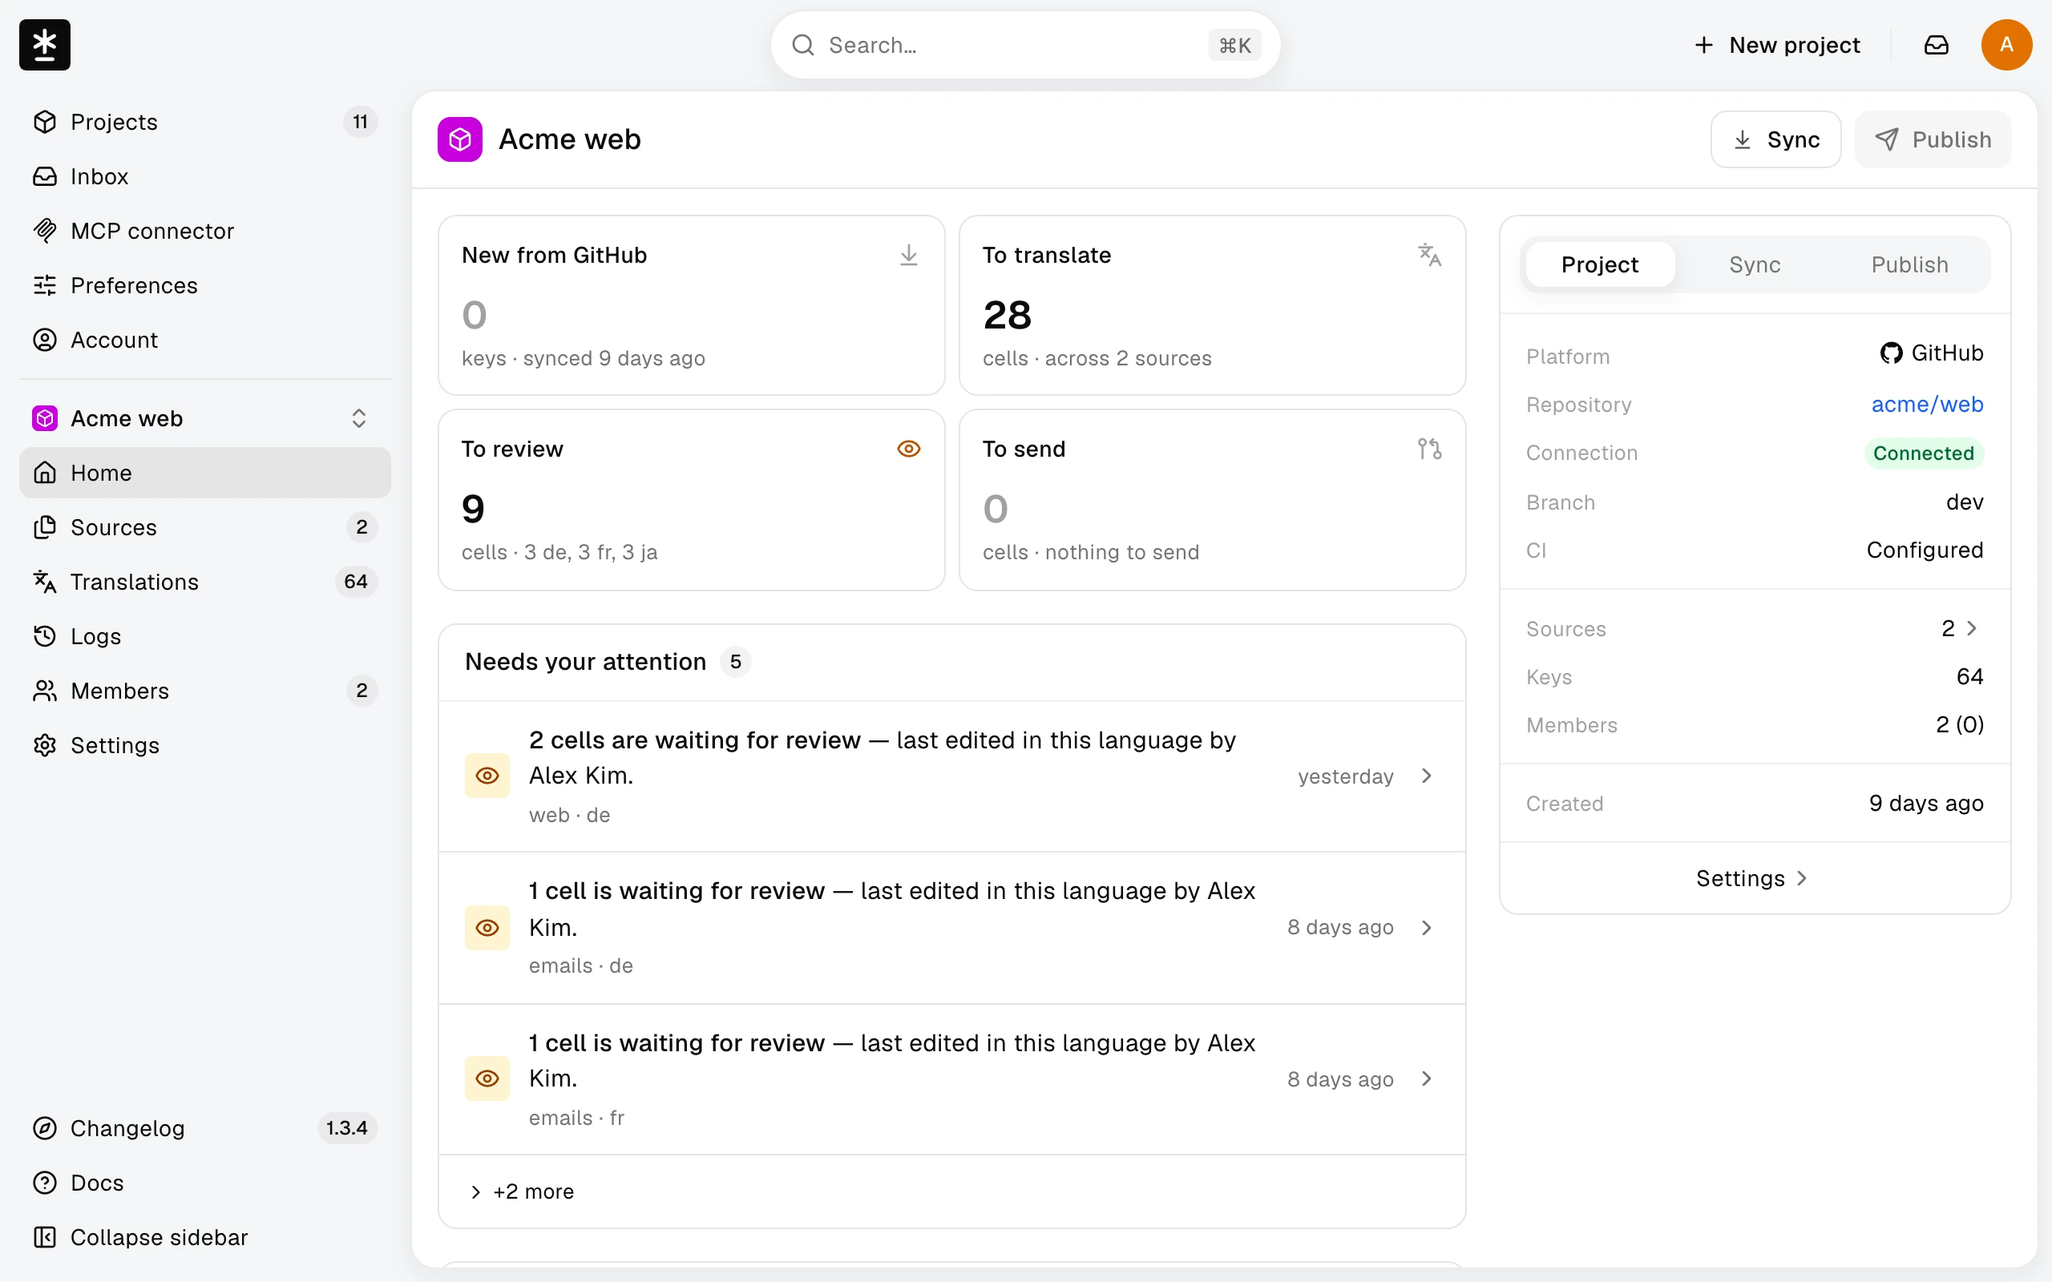
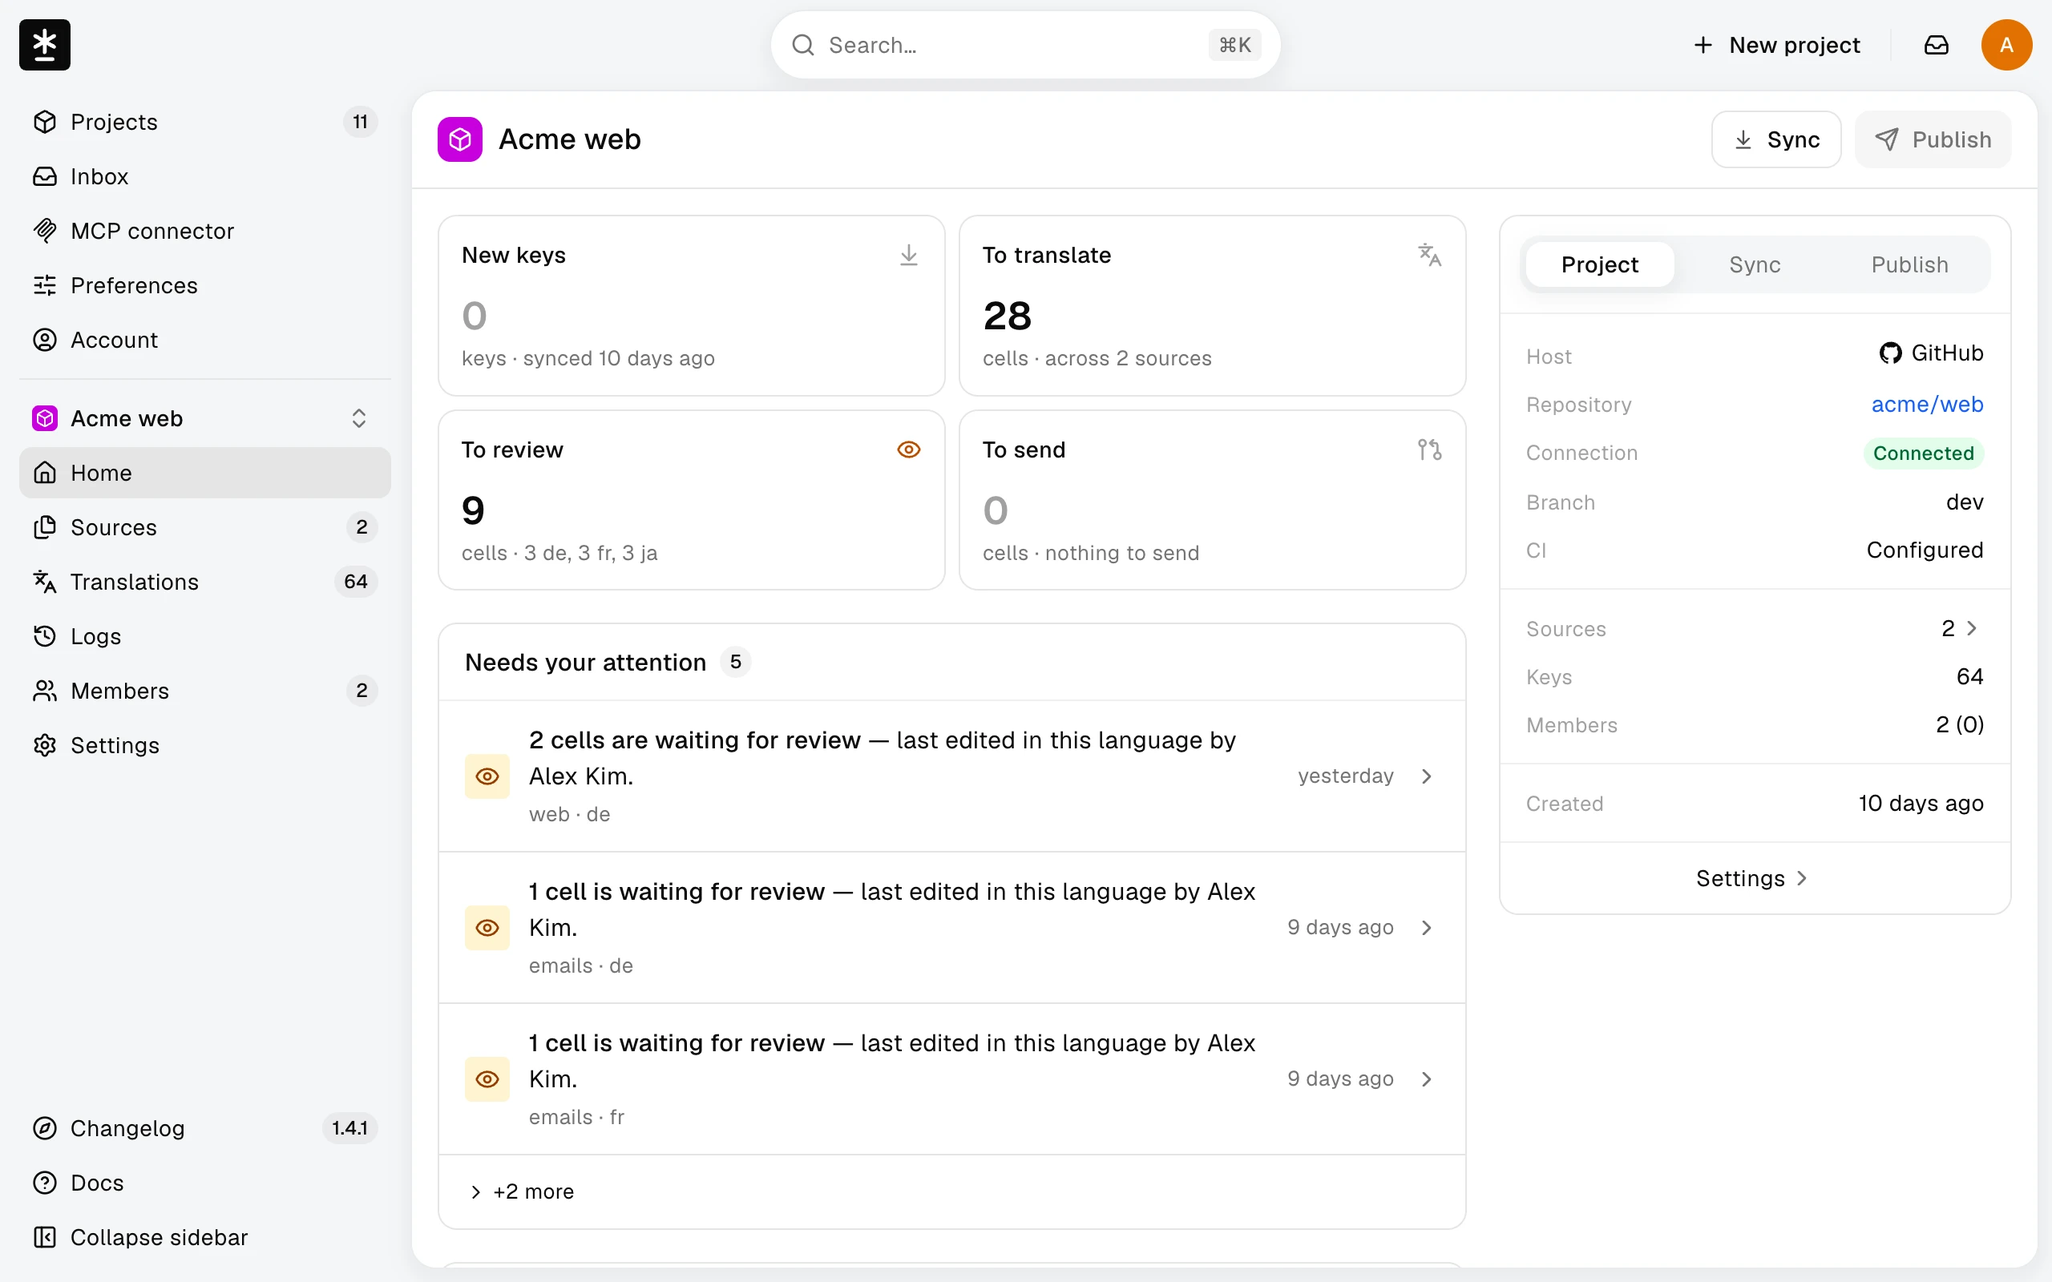
docs(guide): reshoot Home and status filter cuts for New keys and Host

diff --git a/guide/SHOOTING.md b/guide/SHOOTING.md
@@ -159,21 +159,21 @@
 | /guide/actions-policy.webp | lib/onboarding/workflow.ts, .github/actions/malmoi-i18n-push/action.yml | de45de3dad10e1231c932e05ddc616b5397b29d1, 559ddc28bcd1c0fa8f4a1946dd15f7e8fcd0f03d | 2560x1600 |
 | /guide/translation-editor.webp | components/translations/workspace/key-list.tsx, components/translations/workspace/locale-panel.tsx, components/translations/workspace/workspace.tsx, components/translations/workspace/tree-panel.tsx | 2c42ea96c69fe2f89dd975ed4d0435bab8f2df2b, 16a52148f9dd92485ab8e8c1df19e4045de91a50, c1c8ccf51ce92d39c56260381fe756aefc9ca6bb, 1e93cf6e783081414d514b315d21dd4578602550 | 2560x1600 |
 | /guide/publish-preview.webp | components/publish-button.tsx, lib/publish/preview.ts | 83a7db1261a14aae68ca91b0ec231cb7ec4d5343, aab60c85f05f99f32e26d6a47b3a6e6721313f37 | 2560x1600 |
-| /guide/project-home.webp | app/(edit)/projects/[slug]/(home)/page.tsx, components/home/count-cards.tsx, components/home/meta-column.tsx, components/home/meta-tabs.tsx | e1da6ab9dc0773da5c543619d85b06efba41cbb2, 82bc47ebbf79fe2d66902ffb828abffe96bbcd08, 0e67fc7c827d5c28da3bf0c9f7ea71a127c27c6f, 326a71e9fadefec3992bad2e9acf0192fa107a35 | 2560x1600 |
+| /guide/project-home.webp | app/(edit)/projects/[slug]/(home)/page.tsx, components/home/count-cards.tsx, components/home/meta-column.tsx, components/home/meta-tabs.tsx, dict:projects.summary.newFromGithub, dict:home.meta.platform | e1da6ab9dc0773da5c543619d85b06efba41cbb2, 6fb483d9bcbce96a3390bed0bb6d9a9c200ed852, 0e67fc7c827d5c28da3bf0c9f7ea71a127c27c6f, 326a71e9fadefec3992bad2e9acf0192fa107a35, d446176b65708906041b4a7df027fa8e2155349d, 3960ec4ca5fb5e5d8cdb2cc1c5121c003e426517 | 2560x1600 |
 | /guide/invite-members.webp | components/members/invite-modal.tsx | eb7d59815ce95f005cb00d3a9825c6180c0e1b5d | 2560x1600 |
 | /guide/members.webp | components/members/member-list.tsx, components/members/member-row.tsx, components/members/pending-invitations.tsx | 6c11618f5cf3a604dbc8245f1beb026e98a25cc3, c22d96684a0ffbfbe2fdda0b36db5ca310a200e9, bb3be5dd03f9eded04f737c4a007e01e44435210 | 2560x1600 |
 | /guide/sources.webp | components/sources/sources-screen.tsx, components/sources/source-status.tsx | 9c56251ca5cb419d3cdf7659f9aade9512fa9eaf, 3df5a25bcf1d94eee8d15176730ab652a9c18a9c | 2560x1600 |
 | /guide/add-sources.webp | components/sources/add-sources-modal.tsx | 3a68b93e1836d12f8bef9de4e7aad708b0aa3f7c | 2560x1600 |
 | /guide/archive-card.webp | components/settings/archive-card.tsx | fbf5ba1bd7b87ff3c8ea910d2876d810b3deb440 | 2560x1600 |
 | /guide/accept-invitation.webp | app/invite/[token]/page.tsx, components/invite/project-card.tsx, components/signin/auth-layout.tsx | d4d36ad336ad4d41488b964252c22a299fd49457, f9d7dc35d9d0493e3105516374f0e78a24ad7fe2, ba72c94d3b0d2211607221055fa104ef50e4b032 | 2560x1600 |
-| /guide/state-filter.webp | components/translations/workspace/filter-menu.tsx, components/translations/workspace/key-list.tsx, dict:translations.workspace.filters.state.any, dict:translations.workspace.filters.state.incomplete, dict:translations.workspace.filters.state.unsent, dict:translations.workspace.filters.state.review, dict:translations.workspace.filters.state.new | 0d6e722c777ce3d4d3cdba98015793f38c2cbb4a, 2c42ea96c69fe2f89dd975ed4d0435bab8f2df2b, b823bb9b42b3672439670b5267fe5328d7524380, 387fd1bbc18419e26c612f4acad9213e5073ade4, 0d09fa0d8c890b48da20aefe409a39eb962b5114, 33a506cf6ec5a56c261838f0a5a3d29cd7f2dacc, 56539cd31aeb7453fb2900c2952b988146fd6127 | 2560x1600 |
+| /guide/state-filter.webp | components/translations/workspace/filter-menu.tsx, components/translations/workspace/key-list.tsx, dict:translations.workspace.filters.state.any, dict:translations.workspace.filters.state.incomplete, dict:translations.workspace.filters.state.unsent, dict:translations.workspace.filters.state.review, dict:translations.workspace.filters.state.new | 890b223a1897f5bc723c15e92090c1e1b52cb9e7, 2c42ea96c69fe2f89dd975ed4d0435bab8f2df2b, b823bb9b42b3672439670b5267fe5328d7524380, 387fd1bbc18419e26c612f4acad9213e5073ade4, 0d09fa0d8c890b48da20aefe409a39eb962b5114, 33a506cf6ec5a56c261838f0a5a3d29cd7f2dacc, d446176b65708906041b4a7df027fa8e2155349d | 2560x1600 |
 | /guide/inbox-open.webp | components/shell/attention-inbox.tsx, lib/home/attention-view.ts, lib/inbox/plan.ts, components/inbox/row-slots.tsx | 923e6db193fd4c529d08b90415ec621c149ea0b2, edbbb141b2877391ee384376b69298ae30d301da, 4145fd76f2c3729a2975d9c5f53c87195e710f80, 733b1e879b07ca09c03a8687fde5d75a037fde68 | 2560x1600 |
 | /guide/inbox-page.webp | app/(edit)/inbox/page.tsx, components/inbox/inbox-list.tsx, components/inbox/row-slots.tsx, lib/inbox/plan.ts | df74c31a4dd36d61615638890d73981e0d854782, be439ea0b57a08136990b9c26fa176cb9a84c38e, 733b1e879b07ca09c03a8687fde5d75a037fde68, 4145fd76f2c3729a2975d9c5f53c87195e710f80 | 2560x1600 |
-| /guide/home-publish.webp | app/(edit)/projects/[slug]/(home)/page.tsx, components/home/count-cards.tsx, components/publish-button.tsx | e1da6ab9dc0773da5c543619d85b06efba41cbb2, 82bc47ebbf79fe2d66902ffb828abffe96bbcd08, 83a7db1261a14aae68ca91b0ec231cb7ec4d5343 | 2560x1600 |
+| /guide/home-publish.webp | app/(edit)/projects/[slug]/(home)/page.tsx, components/home/count-cards.tsx, components/publish-button.tsx, dict:projects.summary.newFromGithub, dict:home.meta.platform | e1da6ab9dc0773da5c543619d85b06efba41cbb2, 6fb483d9bcbce96a3390bed0bb6d9a9c200ed852, 83a7db1261a14aae68ca91b0ec231cb7ec4d5343, d446176b65708906041b4a7df027fa8e2155349d, 3960ec4ca5fb5e5d8cdb2cc1c5121c003e426517 | 2560x1600 |
 | /guide/publish-result.webp | components/publish-button.tsx | 83a7db1261a14aae68ca91b0ec231cb7ec4d5343 | 2560x1600 |
-| /guide/home-paused.webp | app/(edit)/projects/[slug]/(home)/page.tsx, components/home/count-cards.tsx, components/home/meta-column.tsx, components/home/meta-tabs.tsx, dict:home.cards.held.pending-edits | e1da6ab9dc0773da5c543619d85b06efba41cbb2, 82bc47ebbf79fe2d66902ffb828abffe96bbcd08, 0e67fc7c827d5c28da3bf0c9f7ea71a127c27c6f, 326a71e9fadefec3992bad2e9acf0192fa107a35, e7daa697ea395700d6e0a57f5dc83a59b2b30aa7 | 2560x1600 |
+| /guide/home-paused.webp | app/(edit)/projects/[slug]/(home)/page.tsx, components/home/count-cards.tsx, components/home/meta-column.tsx, components/home/meta-tabs.tsx, dict:home.cards.held.pending-edits, dict:projects.summary.newFromGithub | e1da6ab9dc0773da5c543619d85b06efba41cbb2, 6fb483d9bcbce96a3390bed0bb6d9a9c200ed852, 0e67fc7c827d5c28da3bf0c9f7ea71a127c27c6f, 326a71e9fadefec3992bad2e9acf0192fa107a35, e7daa697ea395700d6e0a57f5dc83a59b2b30aa7, d446176b65708906041b4a7df027fa8e2155349d | 2560x1600 |
 | /guide/revert-confirm.webp | components/translations/workspace/workspace.tsx, components/translations/edit-loss-banner.tsx, components/translations/workspace/key-list.tsx | c1c8ccf51ce92d39c56260381fe756aefc9ca6bb, 1c1091fe8e495bea05b41e9022bb758b522c15e4, 2c42ea96c69fe2f89dd975ed4d0435bab8f2df2b | 2560x1600 |
-| /guide/sync-discard.webp | components/home/sync-button.tsx | 03c75034b48b58f0208b5c625d2e2f4ef7a18b35 | 2560x1600 |
+| /guide/sync-discard.webp | components/home/sync-button.tsx, dict:projects.summary.newFromGithub, dict:home.meta.platform | 03c75034b48b58f0208b5c625d2e2f4ef7a18b35, d446176b65708906041b4a7df027fa8e2155349d, 3960ec4ca5fb5e5d8cdb2cc1c5121c003e426517 | 2560x1600 |
 | /guide/logs-event.webp | components/logs/event-dialog.tsx, components/logs/event-detail.tsx | f76913a6d8972a169402769e9951ef6dbb9a79bb, 60f6fc110edf8df5e7774b2c1aa1cdd4f4c05998 | 2560x1600 |
 | /guide/account.webp | app/(edit)/account/page.tsx, components/account/profile-picture.tsx, components/account/login-methods.tsx, components/account/github-section.tsx, components/account/gitlab-section.tsx | 3a7b63f8d153d5bd28e8c5f01885937aa5697952, c4ea53b3f682c942003dac5b81bb7eb80a72d269, 533e6a97c384e8720357073991cd99e8e4ae2fe5, 14e5cf37c07bc1e566ce9aa32ce6392663269af2, 1925ee36a6dc1bb83791d096b39fb13bdc845490 | 2560x1600 |
 | /guide/footer-language-menu.webp | components/i18n/locale-switcher.tsx, lib/i18n/locales.ts | c71d7813e91fdb33e9144151d6dcdf1f5f34d12d, 7ae40a45e0677ae93a26e331d74bda1680d403da | 2560x1600 |
@@ -196,7 +196,7 @@
 | /guide/gitlab-pat-scopes.webp | components/gitlab/token-form.tsx | ef2b5e0bf7f45739b6266ccbc8e892cd3738934a | 2560x1600 |
 | /guide/gitlab-ci-variable.webp | lib/onboarding/gitlab-ci.ts | 13c632fbd9567a0f78f2d1193f18ab3a9fdaf0fe | 2560x1600 |
 | /guide/gitlab-protected-branch.webp | lib/onboarding/gitlab-ci.ts | 13c632fbd9567a0f78f2d1193f18ab3a9fdaf0fe | 2560x1600 |
-| /guide/home-sync-tab.webp | app/(edit)/projects/[slug]/(home)/page.tsx, components/home/meta-column.tsx, components/home/meta-tabs.tsx, components/home/sync-result.tsx | e1da6ab9dc0773da5c543619d85b06efba41cbb2, 0e67fc7c827d5c28da3bf0c9f7ea71a127c27c6f, 326a71e9fadefec3992bad2e9acf0192fa107a35, aca196a214f9e8e6c9f460da7126300de24fc04a | 2560x1600 |
+| /guide/home-sync-tab.webp | app/(edit)/projects/[slug]/(home)/page.tsx, components/home/meta-column.tsx, components/home/meta-tabs.tsx, components/home/sync-result.tsx, dict:projects.summary.newFromGithub | e1da6ab9dc0773da5c543619d85b06efba41cbb2, 0e67fc7c827d5c28da3bf0c9f7ea71a127c27c6f, 326a71e9fadefec3992bad2e9acf0192fa107a35, aca196a214f9e8e6c9f460da7126300de24fc04a, d446176b65708906041b4a7df027fa8e2155349d | 2560x1600 |
 | /guide/logs-list.webp | app/(edit)/projects/[slug]/logs/page.tsx, components/logs/log-filters.tsx, components/logs/event-row.tsx | 965a0af77acd975284dd5de8cec3b7b17207000a, 8d9380cf37e4a71f31ad628ab2131e396c341f3a, b4f3a62675838cb0380dbae298687702ad170009 | 2560x1600 |
 | /guide/source-details.webp | components/sources/source-detail-modal.tsx, components/sources/base-language-form.tsx | fef5657793714485d4690894b1102340e7ee2821, dc1f4eafdd1817c41cb726570ce4a87edeb05144 | 2560x1600 |
 | /guide/source-remove.webp | components/sources/remove-source-dialog.tsx, components/sources/source-detail-modal.tsx | 5eb13a9ed0df2a070105176aae30556177423001, fef5657793714485d4690894b1102340e7ee2821 | 2560x1600 |
@@ -281,3 +281,4 @@
 - 2026-10-13 **Create 장 분리 + 컷 25장 추가**(사용자 — "앱 설치·PAT 발급 과정을 더 찍어", "깃헙·깃랩 각각 트러블슈팅 가이드 — 에러 상황 재현", "가이드 전체를 확인하고 스크린샷 적극 추가"). 추가(전부 1280×800 · DPR 2): ① 만들기 — `create-github-install`(EDITOR 계정이 GitHub 미연결이라 그 세션으로) · `github-app-install-target` · `github-app-install`(github.com, 설치 확정 안 함) · `gitlab-connect-token`(EDITOR 세션, GitLab 미연결) · `gitlab-pat-form` · `gitlab-pat-scopes`(gitlab.com 프리필 링크, 토큰 안 만듦) · `gitlab-ci-variable`(서랍 Cancel — 저장 안 함) · `gitlab-protected-branch`. ② 설정·동기화·계정·번역 — `home-sync-tab` · `logs-list` · `source-details` · `source-remove`(Cancel) · `archive-restore`(보관된 `audit-q-261007`, Restore 안 누름) · `account-connections` · `sign-out-everywhere`(Cancel) · `preferences-time-zone` · `invite-unavailable` · `global-search` · `translation-edit` · `unsaved-changes`(Escape로 입력 되돌림 — 저장 0). ③ 트러블슈팅 재현 — `github-repository-card` · `repository-not-listed`(없는 검색어) · `rotate-token`(Cancel) · `gitlab-token-refused`(가짜 토큰 `glpat-…`으로 Replace token — GitLab 401, 저장 0) · `gitlab-token-expiring`(개발 DB `GitLabConnection.expiresAt`을 그 id로 좁혀 촬영 동안만 10월 23일로 앞당기고 원래 값 2026-11-11로 되돌림). **못 찍은 것**: GitHub Actions·GitLab 파이프라인의 현행(v3) 실패 로그 — 테스트 리포에 남은 실행은 옛 v1(한국어 출력)뿐이고, 새로 만들려면 리포에 시크릿을 써야 한다. `Sync failed` 홈 — 개발 DB에 실패 사건이 없고, 만들면 상주 프로젝트 Logs에 지울 수 없는 사건이 남는다. 테마 메뉴 — 촬영 계정 테마가 Dark라 메뉴 값이 컷의 라이트 화면과 어긋난다. **SHA만 갱신 2**: `workflow-file` · `gitlab-ci-file` — `ci-card.tsx`는 가이드 링크 경로(`setup/*` → `create/*`)와 주석만 바뀌어 화면이 같다.
 - 2026-10-13 GitLab 감사 리팩터 QA — `guide:check` stale 17컷(19건) 전부 **재촬영 없이 SHA만 갱신**. 바뀐 소스 여섯의 diff가 화면을 바꾸지 않는다: `gitlab-section.tsx`·`steps/repo.tsx`·`repository-card.tsx`는 만료일 생산자 `formatDay`→`formatDateOnly`(결정 R1 — en·UTC에서 둘 다 `Nov 11, 2026`·`Oct 23, 2026`을 낸다고 실측했고, 촬영 계정 시간대는 UTC다) · `token-form.tsx`는 거부 매핑 함수 교체(`gitlabTokenErrorMessage` — GitLab 거부는 같은 `gitlabConnectErrorMessage` 문장으로 떨어진다. 같은 날 `/account` 폼에서 가짜 토큰 거부 문장 `GitLab didn't accept this token…`을 실측했다) · `ci-card.tsx`는 GitLab 힌트 링크의 href(`create/gitlab-ci` → `gitlab/ci`)와 주석 · `sync-result.tsx`는 실행권 전 거부 집합에 `gitlab-project-disconnected` 하나(컷은 성공 결과다). 대조 캡처 둘(`account-connections` · `gitlab-repository-card`, OWNER, 1280×800 · DPR 2)을 기존 파일과 픽셀 대조했다 — 차이는 목록 구역 썸네일 치환 타일 색·아바타 글자(촬영 치환물)와 스크롤 0.3px 반올림뿐이었다(반영하지 않았다). DB·계정 쓰기 없음(같은 세션의 런타임 QA가 GitLab 연결 해제·재연결로 `GitLabConnection` id를 바꿨지만 만료일·사용자명은 같다 — `Connected` 화면 그대로).
 - 2026-10-13 gitlab-oauth GS — `guide:check` stale 12컷(17건) 정리. **재촬영 7**(1280×800 · DPR 2, WebP quality 90, OWNER): `account`(Sign-in methods `3 of 3` — GitLab 행이 서고 GitLab 글리프가 3색 · GitHub 글리프가 잉크 — 그만큼 `GitLab PAT` 카드가 접힘 아래로 내려갔다) · `account-connections` · `sign-out-everywhere`(같은 3색·잉크 글리프. 확인창 문장은 OWNER 확인 상대가 GitHub라 그대로) · `github-repository-card`(Repository 카드 GitHub 글리프가 성공 톤 초록 → 잉크, `BrandGlyph`) · `gitlab-repository-card` · `gitlab-token-expiring`(3색 글리프 — 개발 DB `GitLabConnection.expiresAt`을 그 id로 좁혀 촬영 동안만 앞당기고 원래 값으로 되돌림) · `gitlab-ci-file`(`89b27c21`이 `GITLAB_CI_RELEASE.sha`를 채워 CI file 모달이 미릴리스 안내 → 실제 YAML. 지휘자 승인으로 세 언어 원고의 참조를 `gitlab/ci.md#ci-unavailable` → `#gitlab-ci`로 옮기고 alt·title을 고쳤다). **SHA만 갱신 5**: `accept-invitation` · `oauth-consent`(바뀐 것은 로그아웃 상태의 로그인 버튼(`ProviderIcon`·`m.signIn[provider]`)뿐이고 두 컷은 로그인한 수락·동의 화면이다) · `invite-unavailable`(재캡처 대조 — 눈으로 같은 화면, 버튼 없음) · `gitlab-ci-variable` · `gitlab-protected-branch`(gitlab.com 화면 — `gitlab-ci.ts`의 SHA 한 줄은 그 폼에 안 들어간다). `/signin` 컷은 만들지 않았다 — 로그인 수단 셋은 `account`의 Sign-in methods가 보이고 `/signin`은 버튼 셋뿐이라 그림이 독자에게 더할 것이 없다. 계정·DB 쓰기는 만료일 임시 변경 하나(원복 확인). ⚠ **새로 밟은 것**: ① `.scratch/gitlab-expiry.ts`의 `set`에 `…Z` ISO를 주면 `expiresAt`(timestamp without time zone)에 시간대가 떨어진 채 저장돼 9시간 어긋난다 — 원래 저장값 `2026-11-11 00:00:00`처럼 **`Z` 없는 로컬 리터럴**로 준다. ② 캡처 직전 `data-theme`을 dark → light로 바꾸면 전환 중간 프레임(검은 검색창·버튼)이 찍힌다 — 바꾼 뒤 2.5초 기다린다.
+- 2026-10-14 new-keys 라벨(`201f5b2a` — 키 상태 `New from GitHub`/`New from GitLab` → `New keys`, Home 메타 `Platform` → `Host`) — `guide:check` stale 4컷(5건) + Home이 보이는 둘. **재촬영 6**(1280×800 · DPR 2, WebP quality 90): `project-home` · `home-sync-tab` · `home-paused`(Sync 탭) · `sync-discard`(OWNER) · `state-filter` · `home-publish`(EDITOR). 바뀐 것은 카운트 카드 제목·필터 메뉴 항목·Project 탭 `Host` 행이다(`count-cards.tsx`의 diff는 주석뿐이었다 — 화면은 사전이 바꿨다). **매핑 소스 추가**: 이번처럼 `messages/en.tsx`만 바뀌면 Home 컷이 stale로 안 뜨므로 `dict:projects.summary.newFromGithub`를 Home 컷 다섯에, `dict:home.meta.platform`을 Project 탭이 보이는 셋(`project-home` · `home-publish` · `sync-discard`)에 올렸다. `publish-preview` · `publish-result`는 Dim 뒤 블러라 재캡처를 픽셀 대조만 했다(차이는 0.5px 밀림·블러 속 상대 시각) — 반영하지 않았다. 셋업: OWNER `checkout.submit` de `Jetzt bestellen` → `home-paused`·`sync-discard`(Cancel) → 실제 Revert · EDITOR는 정리된 상태에서 `state-filter`를 먼저 찍고 fr `Passer la commande` → `home-publish` → 빈 값 재저장 → Publish(`Nothing differs`) → OWNER로 재로그인. 테마는 계정 값을 바꾸지 않고 캡처 직전 `data-theme=light` + 2.5초. 전후 대조: 미전달 0→0(전 프로젝트), `acme-web` 사건 73→78, 전체 750→755, 계정 언어·테마·`attentionSeenAt`·OAuth·API 토큰·`GitLabConnection` 불변, GitHub 쓰기 없음. ⚠ **새로 밟은 것**: ① ego lite의 **창이 0개**면(앱은 떠 있다) `Page.captureScreenshot`이 매번 타임아웃이고 `innerWidth`가 호출마다 절반으로 줄었다(640→320→160) — `open -g -a "ego lite"`로 창을 하나 다시 열고 새 페이지(`task.newPage()`)에서 찍었다. ② Sync 확인창은 열린 직후 `Checking whether anything is still waiting in a pull request…` 줄이 섰다 사라진다 — 그 줄이 빠질 때까지 기다린 뒤 찍는다. ③ Home의 `Sync` 버튼은 메타 탭 `Sync`와 이름이 같다 — `not(@role='tab')`로 가른다.
